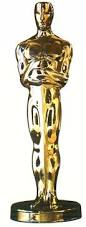
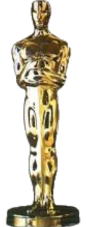
Removed unneeded trophy1.png

diff --git a/404.html b/404.html
@@ -15,13 +15,13 @@
           <tr>
             <td rowspan="3" />
             <td rowspan="3">
-              <img src="http://oscars.site44.com/trophy1.png" id="trophy" />
+              <img src="http://oscars.site44.com/trophy.png" id="trophy" />
             </td>
             <td>
               <br />
             </td>
             <td rowspan="3">
-              <img src="http://oscars.site44.com/trophy1.png" id="trophy" />
+              <img src="http://oscars.site44.com/trophy.png" id="trophy" />
             </td>
             <td rowspan="3" />
           </tr>

diff --git a/history/index.html b/history/index.html
@@ -15,13 +15,13 @@
           <tr>
             <td rowspan="3" />
             <td rowspan="3">
-              <img src="http://oscars.site44.com/trophy1.png" id="trophy" />
+              <img src="http://oscars.site44.com/trophy.png" id="trophy" />
             </td>
             <td>
               <br />
             </td>
             <td rowspan="3">
-              <img src="http://oscars.site44.com/trophy1.png" id="trophy" />
+              <img src="http://oscars.site44.com/trophy.png" id="trophy" />
             </td>
             <td rowspan="3" />
           </tr>
